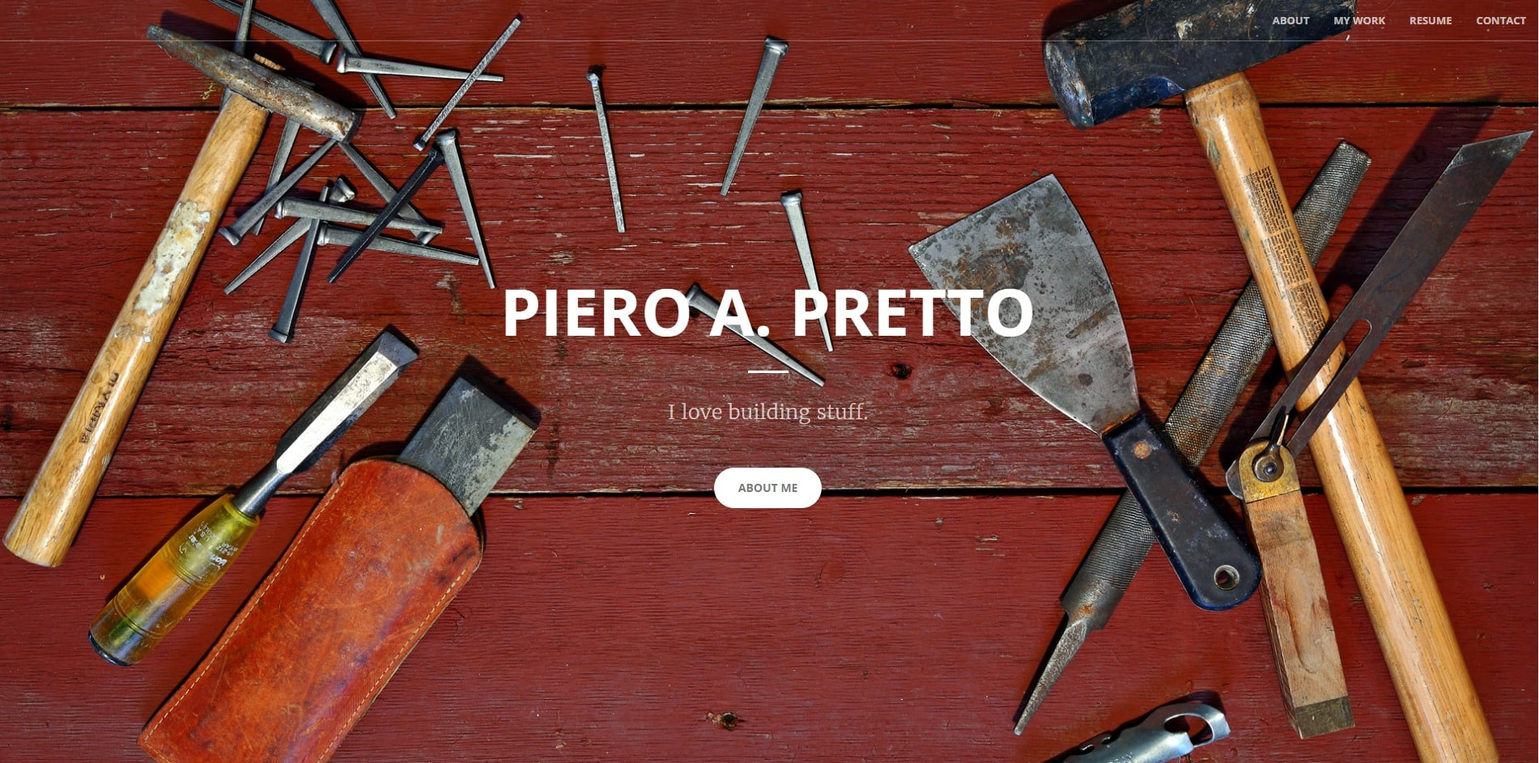
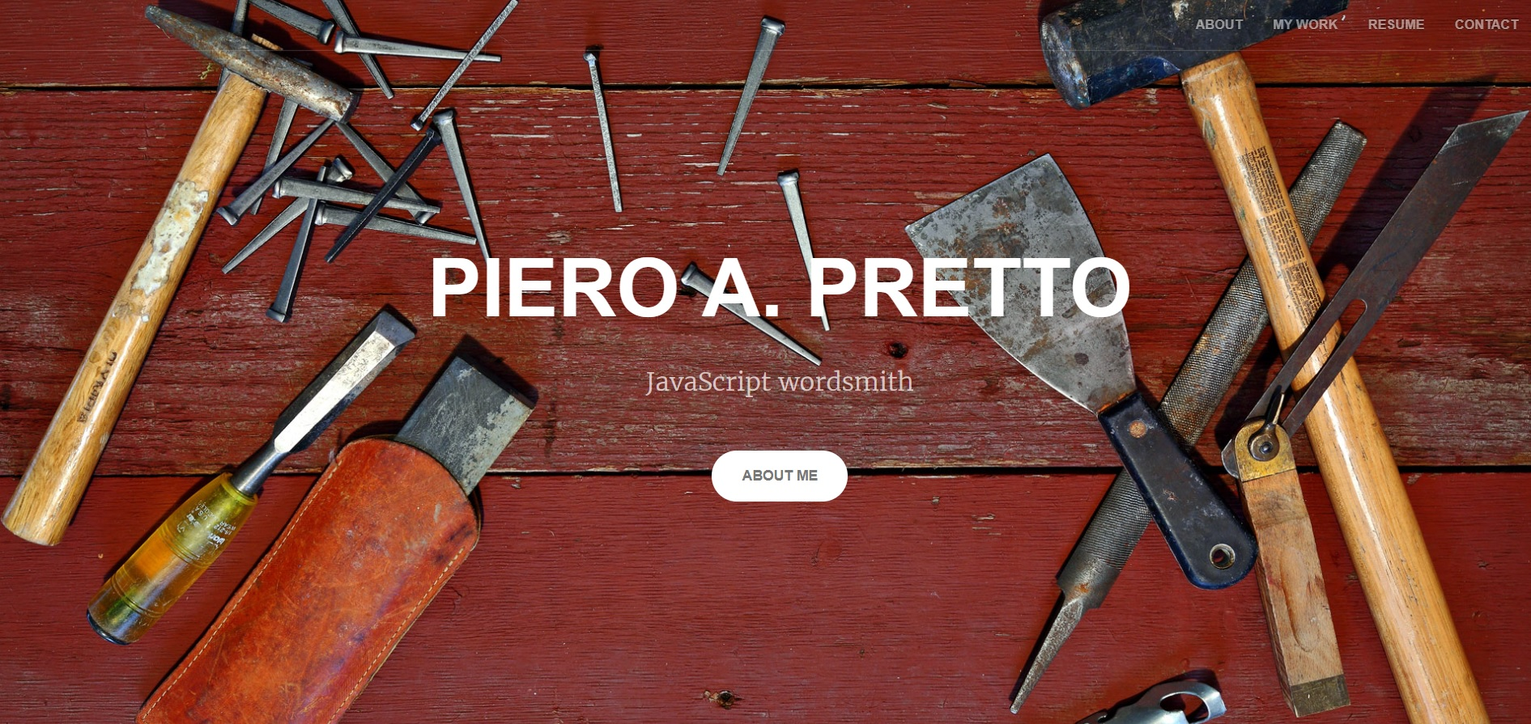
update resume and add project descriptions

diff --git a/css/creative_mini.css b/css/creative_mini.css
@@ -1,1 +1,1 @@
-html,body{height:100%;width:100%}body{font-family:'Merriweather','Helvetica Neue',Arial,sans-serif}hr{border-color:#fff;border-width:3px;max-width:50px}hr.light{border-color:white}a{-webkit-transition:all 0.35s;-moz-transition:all 0.35s;transition:all 0.35s;color:#F05F40}a:hover,a:focus{color:#eb3812}h1,h2,h3,h4,h5,h6{font-family:'Open Sans','Helvetica Neue',Arial,sans-serif}p{font-size:18px;line-height:1.5;margin-bottom:20px}.bg-primary{background-color:#F05F40}.bg-dark{background-color:#262626;color:white}.text-faded{color:rgba(255,255,255,.7);text-align:center}#about:hover #profile-picture{transform:scale(1.1);-webkit-transition:transform .5s;transition:transform .5s;transition-timing-function:linear;-webkit-transition-timing-function:linear}section{padding:100px 0}aside{padding:50px 0}.no-padding{padding:0}.navbar-default{background-color:white;border-color:rgba(34,34,34,.05);font-family:'Open Sans','Helvetica Neue',Arial,sans-serif;-webkit-transition:all 0.35s;-moz-transition:all 0.35s;transition:all 0.35s;opacity:.5}.navbar-default .navbar-header .navbar-brand{color:#F05F40;font-family:'Open Sans','Helvetica Neue',Arial,sans-serif;font-weight:700;text-transform:uppercase}.navbar-default .navbar-header .navbar-brand:hover,.navbar-default .navbar-header .navbar-brand:focus{color:#eb3812}.navbar-default .navbar-header .navbar-toggle{font-weight:700;font-size:12px;color:#222;text-transform:uppercase}.navbar-default .nav>li>a,.navbar-default .nav>li>a:focus{text-transform:uppercase;font-weight:700;font-size:13px;color:#222}.navbar-default .nav>li>a:hover,.navbar-default .nav>li>a:focus:hover{color:#F05F40}.navbar-default .nav>li.active>a,.navbar-default .nav>li.active>a:focus{color:#F05F40!important;background-color:transparent}.navbar-default .nav>li.active>a:hover,.navbar-default .nav>li.active>a:focus:hover{background-color:transparent}@media (min-width:768px){.navbar-default{background-color:transparent;border-color:rgba(255,255,255,.3)}.navbar-default .navbar-header .navbar-brand{color:rgba(255,255,255,.7)}.navbar-default .navbar-header .navbar-brand:hover,.navbar-default .navbar-header .navbar-brand:focus{color:white}.navbar-default .nav>li>a{color:#fff;text-shadow:-1px 0 black,0 1px black,0 -1px black}.navbar-default .nav>li>a:hover,.navbar-default .nav>li>a:focus:hover{-webkit-transform:scale(1.1);-ms-transform:scale(1.1);transform:scale(1.1);color:#fff}.navbar-default.affix{background-color:white;border-color:rgba(34,34,34,.05)}.navbar-default.affix .navbar-header .navbar-brand{color:#F05F40;font-size:14px}.navbar-default.affix .navbar-header .navbar-brand:hover,.navbar-default.affix .navbar-header .navbar-brand:focus{color:#eb3812}.navbar-default.affix .nav>li>a,.navbar-default.affix .nav>li>a:focus{color:#222}.navbar-default.affix .nav>li>a:hover,.navbar-default.affix .nav>li>a:focus:hover{color:#F05F40}}header{position:relative;width:100%;min-height:auto;-webkit-background-size:cover;-moz-background-size:cover;background-size:cover;-o-background-size:cover;background-position:center;background-image:url(../img/header3-min.jpg);filter:alpha(opacity=90);text-align:center;color:white}header .header-content{position:relative;text-align:center;padding:100px 15px 100px;width:100%}header .header-content .header-content-inner h1{font-weight:700;text-transform:uppercase;font-size:30px}header .header-content .header-content-inner hr{margin:30px auto}header .header-content .header-content-inner p{font-weight:300;color:rgba(255,255,255,.7);font-size:16px;margin-bottom:50px}@media (min-width:768px){header{min-height:100%}header .header-content{position:absolute;top:50%;-webkit-transform:translateY(-50%);-ms-transform:translateY(-50%);transform:translateY(-50%);padding:0 50px}header .header-content .header-content-inner{max-width:1000px;margin-left:auto;margin-right:auto}header .header-content .header-content-inner h1{font-size:50px}header .header-content .header-content-inner p{font-size:25px;max-width:80%;margin-left:auto;margin-right:auto}}.section-heading{margin-top:0}.service-box{min-height:250px;max-width:400px;margin:50px auto 0}@media (min-width:992px){.service-box{margin:20px auto 0}}.service-box p{margin-bottom:0;padding-left:5px;padding-right:5px;}.portfolio-box{position:relative;display:block;max-width:650px;margin:0 auto}.portfolio-box .portfolio-box-caption{color:white;opacity:0;display:block;background:#012561;position:absolute;bottom:0;text-align:center;width:100%;height:100%;-webkit-transition:all 0.35s;-moz-transition:all 0.35s;transition:all 0.35s}.portfolio-box .portfolio-box-caption .portfolio-box-caption-content{width:100%;text-align:center;position:absolute;top:50%;transform:translateY(-50%)}.portfolio-box .portfolio-box-caption .portfolio-box-caption-content .project-category,.portfolio-box .portfolio-box-caption .portfolio-box-caption-content .project-name{font-family:'Open Sans','Helvetica Neue',Arial,sans-serif;padding:0 15px}.portfolio-box .portfolio-box-caption .portfolio-box-caption-content .project-category{text-transform:uppercase;font-weight:600;font-size:14px}.portfolio-box .portfolio-box-caption .portfolio-box-caption-content .project-name{font-size:18px}.portfolio-box:hover .portfolio-box-caption{opacity:.97}.portfolio-box:focus{outline:none}@media (min-width:768px){.portfolio-box .portfolio-box-caption .portfolio-box-caption-content .project-category{font-size:16px}.portfolio-box .portfolio-box-caption .portfolio-box-caption-content .project-name{font-size:22px}}.call-to-action h2{margin:0 auto 20px}.text-primary{color:#F05F40}.no-gutter>[class*='col-']{padding-right:0;padding-left:0}.btn-default{color:#222;background-color:white;border-color:white;-webkit-transition:all 0.35s;-moz-transition:all 0.35s;transition:all 0.35s}.btn-default:hover,.btn-default:focus,.btn-default.focus,.btn-default:active,.btn-default.active,.open>.dropdown-toggle.btn-default{color:#222;background-color:#f2f2f2;border-color:#ededed}.btn-default:active,.btn-default.active,.open>.dropdown-toggle.btn-default{background-image:none}.btn-default.disabled,.btn-default[disabled],fieldset[disabled] .btn-default,.btn-default.disabled:hover,.btn-default[disabled]:hover,fieldset[disabled] .btn-default:hover,.btn-default.disabled:focus,.btn-default[disabled]:focus,fieldset[disabled] .btn-default:focus,.btn-default.disabled.focus,.btn-default[disabled].focus,fieldset[disabled] .btn-default.focus,.btn-default.disabled:active,.btn-default[disabled]:active,fieldset[disabled] .btn-default:active,.btn-default.disabled.active,.btn-default[disabled].active,fieldset[disabled] .btn-default.active{background-color:white;border-color:white}.btn-default .badge{color:white;background-color:#222}.btn-primary{color:#777;background-color:#fff;border-color:#000;-webkit-transition:all 0.35s;-moz-transition:all 0.35s;transition:all 0.35s}.btn-primary:hover,.btn-primary:focus,.btn-primary.focus,.btn-primary:active,.btn-primary.active,.open>.dropdown-toggle.btn-primary{color:white;background-color:#F05F40;border-color:#F05F40}.btn-primary:active,.btn-primary.active,.open>.dropdown-toggle.btn-primary{background-image:none}.btn-primary.disabled,.btn-primary[disabled],fieldset[disabled] .btn-primary,.btn-primary.disabled:hover,.btn-primary[disabled]:hover,fieldset[disabled] .btn-primary:hover,.btn-primary.disabled:focus,.btn-primary[disabled]:focus,fieldset[disabled] .btn-primary:focus,.btn-primary.disabled.focus,.btn-primary[disabled].focus,fieldset[disabled] .btn-primary.focus,.btn-primary.disabled:active,.btn-primary[disabled]:active,fieldset[disabled] .btn-primary:active,.btn-primary.disabled.active,.btn-primary[disabled].active,fieldset[disabled] .btn-primary.active{background-color:#F05F40;border-color:#F05F40}.btn-primary .badge{color:#F05F40;background-color:white}.btn{font-family:'Open Sans','Helvetica Neue',Arial,sans-serif;border:none;border-radius:300px;font-weight:700;text-transform:uppercase}.btn-xl:hover{-webkit-transform:scale(1.1);-ms-transform:scale(1.1);transform:scale(1.1)}.btn-xl{padding:15px 30px}::-moz-selection{color:white;text-shadow:none;background:#222}::selection{color:white;text-shadow:none;background:#222}img::selection{color:white;background:transparent}img::-moz-selection{color:white;background:transparent}body{webkit-tap-highlight-color:#222}.sr-icons{font-size:4em}.footer_info{line-height:3}@media (min-width:768px){#homeHeading{font-size:80px}}@media (max-width:767px){#homeHeading{font-size:40px;text-shadow:2px 2px #000}header{background-color:#fff;opacity:.8}#homeHr{display:none}}.img_circle{border-radius:50%;height:150px;width:150px;border:2px solid #fff;margin:20px}.img-responsive{outline:2px solid #777;outline-offset:-1px}@media (max-width:992px),(min-width:767px){#overflow-img{outline:0;outline-offset:-1px}}.sectionHr{border-color:#737373;border-width:2px;max-width:50px}#facebook_img{display:none}#portfolio-box-overflow:hover{background:#012561}
+html,body{height:100%;width:100%}body{font-family:'Merriweather','Helvetica Neue',Arial,sans-serif}hr{border-color:#fff;border-width:3px;max-width:50px}hr.light{border-color:white}a{-webkit-transition:all 0.35s;-moz-transition:all 0.35s;transition:all 0.35s;color:#F05F40}a:hover,a:focus{color:#eb3812}h1,h2,h3,h4,h5,h6{font-family:'Open Sans','Helvetica Neue',Arial,sans-serif}p{font-size:18px;line-height:1.5;margin-bottom:20px}.bg-primary{background-color:#F05F40}.bg-dark{background-color:#262626;color:white}.text-faded{color:rgba(255,255,255,.7);text-align:center}#about:hover #profile-picture{transform:scale(1.1);-webkit-transition:transform .5s;transition:transform .5s;transition-timing-function:linear;-webkit-transition-timing-function:linear}section{padding:100px 0}aside{padding:50px 0}.no-padding{padding:0}.navbar-default{background-color:white;border-color:rgba(34,34,34,.05);font-family:'Open Sans','Helvetica Neue',Arial,sans-serif;-webkit-transition:all 0.35s;-moz-transition:all 0.35s;transition:all 0.35s;opacity:.5}.navbar-default .navbar-header .navbar-brand{color:#F05F40;font-family:'Open Sans','Helvetica Neue',Arial,sans-serif;font-weight:700;text-transform:uppercase}.navbar-default .navbar-header .navbar-brand:hover,.navbar-default .navbar-header .navbar-brand:focus{color:#eb3812}.navbar-default .navbar-header .navbar-toggle{font-weight:700;font-size:12px;color:#222;text-transform:uppercase}.navbar-default .nav>li>a,.navbar-default .nav>li>a:focus{text-transform:uppercase;font-weight:700;font-size:13px;color:#222}.navbar-default .nav>li>a:hover,.navbar-default .nav>li>a:focus:hover{color:#F05F40}.navbar-default .nav>li.active>a,.navbar-default .nav>li.active>a:focus{color:#F05F40!important;background-color:transparent}.navbar-default .nav>li.active>a:hover,.navbar-default .nav>li.active>a:focus:hover{background-color:transparent}@media (min-width:768px){.navbar-default{background-color:transparent;border-color:rgba(255,255,255,.3)}.navbar-default .navbar-header .navbar-brand{color:rgba(255,255,255,.7)}.navbar-default .navbar-header .navbar-brand:hover,.navbar-default .navbar-header .navbar-brand:focus{color:white}.navbar-default .nav>li>a{color:#fff;text-shadow:-1px 0 black,0 1px black,0 -1px black}.navbar-default .nav>li>a:hover,.navbar-default .nav>li>a:focus:hover{-webkit-transform:scale(1.1);-ms-transform:scale(1.1);transform:scale(1.1);color:#fff}.navbar-default.affix{background-color:white;border-color:rgba(34,34,34,.05)}.navbar-default.affix .navbar-header .navbar-brand{color:#F05F40;font-size:14px}.navbar-default.affix .navbar-header .navbar-brand:hover,.navbar-default.affix .navbar-header .navbar-brand:focus{color:#eb3812}.navbar-default.affix .nav>li>a,.navbar-default.affix .nav>li>a:focus{color:#222}.navbar-default.affix .nav>li>a:hover,.navbar-default.affix .nav>li>a:focus:hover{color:#F05F40}}header{position:relative;width:100%;min-height:auto;-webkit-background-size:cover;-moz-background-size:cover;background-size:cover;-o-background-size:cover;background-position:center;background-image:url(../img/header3.jpg);filter:alpha(opacity=90);text-align:center;color:white}header .header-content{position:relative;text-align:center;padding:100px 15px 100px;width:100%}header .header-content .header-content-inner h1{font-weight:700;text-transform:uppercase;font-size:30px}header .header-content .header-content-inner hr{margin:30px auto}header .header-content .header-content-inner p{font-weight:300;color:rgba(255,255,255,.7);font-size:16px;margin-bottom:50px}@media (min-width:768px){header{min-height:100%}header .header-content{position:absolute;top:50%;-webkit-transform:translateY(-50%);-ms-transform:translateY(-50%);transform:translateY(-50%);padding:0 50px}header .header-content .header-content-inner{max-width:1000px;margin-left:auto;margin-right:auto}header .header-content .header-content-inner h1{font-size:50px}header .header-content .header-content-inner p{font-size:25px;max-width:80%;margin-left:auto;margin-right:auto}}.section-heading{margin-top:0}.service-box{max-width:400px;margin:50px auto 0}@media (min-width:992px){.service-box{margin:20px auto 0}}.service-box p{margin-bottom:0}.portfolio-box{position:relative;display:block;max-width:650px;margin:0 auto}.portfolio-box .portfolio-box-caption{color:white;opacity:0;display:block;background:#012561;position:absolute;bottom:0;text-align:center;width:100%;height:100%;-webkit-transition:all 0.35s;-moz-transition:all 0.35s;transition:all 0.35s}.portfolio-box .portfolio-box-caption .portfolio-box-caption-content{width:100%;text-align:center;position:absolute;top:50%;transform:translateY(-50%)}.portfolio-box .portfolio-box-caption .portfolio-box-caption-content .project-category,.portfolio-box .portfolio-box-caption .portfolio-box-caption-content .project-name{font-family:'Open Sans','Helvetica Neue',Arial,sans-serif;padding:0 15px}.portfolio-box .portfolio-box-caption .portfolio-box-caption-content .project-category{text-transform:uppercase;font-weight:600}.portfolio-box .portfolio-box-caption .portfolio-box-caption-content .project-name{font-size:18px}.portfolio-box:hover .portfolio-box-caption{opacity:.97}.portfolio-box:focus{outline:none}@media (min-width:768px){.portfolio-box .portfolio-box-caption .portfolio-box-caption-content{font-size:16px}.portfolio-box .portfolio-box-caption .portfolio-box-caption-content .project-name{font-size:22px}}.call-to-action h2{margin:0 auto 20px}.text-primary{color:#F05F40}.no-gutter>[class*='col-']{padding-right:0;padding-left:0}.btn-default{color:#222;background-color:white;border-color:white;-webkit-transition:all 0.35s;-moz-transition:all 0.35s;transition:all 0.35s}.btn-default:hover,.btn-default:focus,.btn-default.focus,.btn-default:active,.btn-default.active,.open>.dropdown-toggle.btn-default{color:#222;background-color:#f2f2f2;border-color:#ededed}.btn-default:active,.btn-default.active,.open>.dropdown-toggle.btn-default{background-image:none}.btn-default.disabled,.btn-default[disabled],fieldset[disabled] .btn-default,.btn-default.disabled:hover,.btn-default[disabled]:hover,fieldset[disabled] .btn-default:hover,.btn-default.disabled:focus,.btn-default[disabled]:focus,fieldset[disabled] .btn-default:focus,.btn-default.disabled.focus,.btn-default[disabled].focus,fieldset[disabled] .btn-default.focus,.btn-default.disabled:active,.btn-default[disabled]:active,fieldset[disabled] .btn-default:active,.btn-default.disabled.active,.btn-default[disabled].active,fieldset[disabled] .btn-default.active{background-color:white;border-color:white}.btn-default .badge{color:white;background-color:#222}.btn-primary{color:#777;background-color:#fff;border-color:#000;-webkit-transition:all 0.35s;-moz-transition:all 0.35s;transition:all 0.35s}.btn-primary:hover,.btn-primary:focus,.btn-primary.focus,.btn-primary:active,.btn-primary.active,.open>.dropdown-toggle.btn-primary{color:white;background-color:#F05F40;border-color:#F05F40}.btn-primary:active,.btn-primary.active,.open>.dropdown-toggle.btn-primary{background-image:none}.btn-primary.disabled,.btn-primary[disabled],fieldset[disabled] .btn-primary,.btn-primary.disabled:hover,.btn-primary[disabled]:hover,fieldset[disabled] .btn-primary:hover,.btn-primary.disabled:focus,.btn-primary[disabled]:focus,fieldset[disabled] .btn-primary:focus,.btn-primary.disabled.focus,.btn-primary[disabled].focus,fieldset[disabled] .btn-primary.focus,.btn-primary.disabled:active,.btn-primary[disabled]:active,fieldset[disabled] .btn-primary:active,.btn-primary.disabled.active,.btn-primary[disabled].active,fieldset[disabled] .btn-primary.active{background-color:#F05F40;border-color:#F05F40}.btn-primary .badge{color:#F05F40;background-color:white}.btn{font-family:'Open Sans','Helvetica Neue',Arial,sans-serif;border:none;border-radius:300px;font-weight:700;text-transform:uppercase}.btn-xl:hover{-webkit-transform:scale(1.1);-ms-transform:scale(1.1);transform:scale(1.1)}.btn-xl{padding:15px 30px}::-moz-selection{color:white;text-shadow:none;background:#222}::selection{color:white;text-shadow:none;background:#222}img::selection{color:white;background:transparent}img::-moz-selection{color:white;background:transparent}body{webkit-tap-highlight-color:#222}.sr-icons{font-size:4em}.footer_info{line-height:3}@media (min-width:768px){#homeHeading{font-size:80px}}@media (max-width:767px){#homeHeading{font-size:40px;text-shadow:2px 2px #000}header{background-color:#fff;opacity:.8}#homeHr{display:none}}.img_circle{border-radius:50%;height:150px;width:150px;border:2px solid #fff;margin:20px}.img-responsive{outline:2px solid #777;outline-offset:-1px}@media (max-width:992px),(min-width:767px){#overflow-img{outline:0;outline-offset:-1px}}.sectionHr{border-color:#737373;border-width:2px;max-width:50px}#facebook_img{display:none}#portfolio-box-overflow:hover{background:#012561}.line_break{max-width:50%}.project-category{font-size:18px;margin-top:25px}.project-description{font-size:14px}@media(max-width:500px){.project-category{font-size:14px}.project-description{font-size:11px}}

diff --git a/index.html b/index.html
@@ -18,7 +18,7 @@
         <!-- Bootstrap Core CSS -->
         <link rel="stylesheet" href="css/bootstrap_mini.css">
         <!-- Theme CSS -->
-        <link rel="stylesheet" href="css/creative_mini.css">
+        <link rel="stylesheet" href="css/creative.css">
 
     </head>
 
@@ -61,7 +61,7 @@
                     <div class="header-content-inner wow fadeIn" data-wow-duration="1s">
                         <h1 id="homeHeading">Piero A. Pretto</h1>
                         <hr id="homeHr">
-                        <p id="homeParagraph">I love to build.</p>
+                        <p id="homeParagraph">JavaScript wordsmith</p>
                         <a href="#about" class="btn btn-primary btn-xl page-scroll" alt="scroll to about section">About Me</a>
                     </div>
                 </div>
@@ -77,7 +77,7 @@
                     <br>
                     <br>
                     <div role="contentinfo">
-                      <p class="text-faded wow fadeIn" data-wow-duration="1s" >Web consultant with an expertise in web accessibility and client-side JavaScript frameworks.</p>
+                      <p class="text-faded wow fadeIn" data-wow-duration="1s">Hi! My name is Piero. I'm an instructional associate at General Assembly and a web consultant with an expertise in modern JavaScript frameworks.</p>
                     </div>
                     <br>
                     <br>
@@ -144,13 +144,13 @@
                       <a href="https://dlcc1h28kdoc1.cloudfront.net" class="portfolio-box" target="_blank" role="link" alt="link to accessible drag and drop app">
                           <img src="img/accessible_app4-min.jpg" class="img-responsive wow fadeInUp" data-wow-duration="1s" alt="accessibility app">
                             <div class="portfolio-box-caption">
-                                <div class="portfolio-box-caption-content">
+                                <div class="portfolio-box-caption-content" style="padding:50px;">
                                     <div class="project-category text-faded">
-                                        JavaScript
-                                    </div>
-                                    <div class="project-name">
                                         Accessible Drag &#38; Drag
                                     </div>
+                                    <img class="line_break" src="img/line_break.png">
+                                    <br>
+                                    <p class="project-description">An ADA Section 508 compliant learning module demo for instructors who assist students with disabilities.</p>
                                 </div>
                             </div>
                         </a>
@@ -159,13 +159,13 @@
                         <a href="animations/animation_example1.html" class="portfolio-box" role="link" alt="link to JavaScript Animation demo">
                             <img src="img/phone.gif"  class="img-responsive wow fadeInUp" data-wow-duration="1s" alt="javascript animation app">
                             <div class="portfolio-box-caption">
-                                <div class="portfolio-box-caption-content">
+                                <div class="portfolio-box-caption-content" style="padding:50px;">
                                     <div class="project-category text-faded">
-                                        JavaScript Animation
-                                    </div>
-                                    <div class="project-name">
                                         AT&#38;T Banner Advertisement
                                     </div>
+                                    <img class="line_break" src="img/line_break.png">
+                                    <br>
+                                    <p class="project-description">HTML5 ad built exclusively with JavaScript &#38; CSS.</p>
                                 </div>
                             </div>
                         </a>
@@ -174,13 +174,13 @@
                         <a href="https://react-app-repository.herokuapp.com" class="portfolio-box" role="link" alt="link to React Movie Repository">
                             <img src="img/react2-min.jpg"  class="img-responsive wow fadeInUp" data-wow-duration="1s" alt="react movie repository app">
                             <div class="portfolio-box-caption">
-                                <div class="portfolio-box-caption-content">
+                                <div class="portfolio-box-caption-content" style="padding:50px;">
                                     <div class="project-category text-faded">
-                                        React.js
-                                    </div>
-                                    <div class="project-name">
                                         React Movie Repository
                                     </div>
+                                    <img class="line_break" src="img/line_break.png">
+                                    <br>
+                                    <p class="project-description">RESTful React.js application utilizing OMDb API to auto-generate data based on movie title submissions.</p>
                                 </div>
                             </div>
                         </a>
@@ -189,13 +189,13 @@
                         <a href="https://switter-app.herokuapp.com" class="portfolio-box" role="link" alt="link to Backbone.js Switter App">
                             <img src="img/switter3-min.jpg" class="img-responsive wow fadeInUp" data-wow-duration="1s" alt="backbone.js switter app">
                             <div class="portfolio-box-caption">
-                                <div class="portfolio-box-caption-content">
+                                <div class="portfolio-box-caption-content" style="padding:50px;">
                                     <div class="project-category text-faded">
-                                        Backbone.js
-                                    </div>
-                                    <div class="project-name">
                                         Switter App
                                     </div>
+                                    <img class="line_break" src="img/line_break.png">
+                                    <br>
+                                    <p class="project-description">RESTful Backbone.js application. Every "tweet" can be deleted, updated and liked in the status feed.</p>
                                 </div>
                             </div>
                         </a>
@@ -204,14 +204,14 @@
                         <a href="heminotes/heminotes_main/index.html" class="portfolio-box" target="_blank" role="link" alt="link to HemiNotes App">
                             <img src="img/heminotes3-min.jpg"  class="img-responsive wow fadeInUp" data-wow-duration="1s" alt="heminotes">
                             <div class="portfolio-box-caption">
-                                <div class="portfolio-box-caption-content">
-                                    <div class="project-category text-faded">
-                                        HTML &#38; CSS
-                                    </div>
-                                    <div class="project-name">
-                                        HemiNotes
-                                    </div>
-                                </div>
+                              <div class="portfolio-box-caption-content" style="padding:50px;">
+                                  <div class="project-category text-faded">
+                                      HemiNotes
+                                  </div>
+                                  <img class="line_break" src="img/line_break.png">
+                                  <br>
+                                  <p class="project-description">Share &#38; Compare Notes with classmates. This web applcation was built on Bootstrap.</p>
+                              </div>
                             </div>
                         </a>
                     </div>
@@ -219,14 +219,14 @@
                         <a href="https://d12sh18v9174ct.cloudfront.net" class="portfolio-box" role="link" alt="link to Angular.js Address Book">
                             <img src="img/angular3-min.jpg"  class="img-responsive wow fadeInUp" data-wow-duration="1s" alt="Angular.js Address Book">
                             <div class="portfolio-box-caption">
-                                <div class="portfolio-box-caption-content">
-                                    <div class="project-category text-faded">
-                                        Angular.JS
-                                    </div>
-                                    <div class="project-name">
-                                        Address Book
-                                    </div>
-                                </div>
+                              <div class="portfolio-box-caption-content" style="padding:50px;">
+                                  <div class="project-category text-faded">
+                                      AngularJS Address Book
+                                  </div>
+                                  <img class="line_break" src="img/line_break.png">
+                                  <br>
+                                  <p class="project-description">REST-consuming address book application built with Angular.js</p>
+                              </div>
                             </div>
                         </a>
                     </div>
@@ -234,14 +234,14 @@
                         <a href="https://email-management-system-react.herokuapp.com" class="portfolio-box" role="link" alt="link to React Email Management System" target="_blank">
                             <img src="img/emails.jpg" class="img-responsive wow fadeInUp" data-wow-duration="1s" alt="Email Management System">
                             <div class="portfolio-box-caption">
-                                <div class="portfolio-box-caption-content">
-                                    <div class="project-category text-faded">
-                                        React.js
-                                    </div>
-                                    <div class="project-name">
-                                        Email Management System
-                                    </div>
-                                </div>
+                              <div class="portfolio-box-caption-content" style="padding:50px;">
+                                  <div class="project-category text-faded">
+                                      Email Management System
+                                  </div>
+                                  <img class="line_break" src="img/line_break.png">
+                                  <br>
+                                  <p class="project-description">ReactJS application for organizing and searching through email contacts.</p>
+                              </div>
                             </div>
                         </a>
                     </div>
@@ -250,12 +250,14 @@
                             <img src="img/brello2-min.jpg"  class="img-responsive wow fadeInUp" data-wow-duration="1s" alt="brello app">
                             <div class="portfolio-box-caption">
                                 <div class="portfolio-box-caption-content">
-                                    <div class="project-category text-faded">
-                                        Backbone.js
-                                    </div>
-                                    <div class="project-name">
-                                        Task Manager
-                                    </div>
+                                  <div class="portfolio-box-caption-content" style="padding:50px;">
+                                      <div class="project-category text-faded">
+                                          Backbone.js Task Manager
+                                      </div>
+                                      <img class="line_break" src="img/line_break.png">
+                                      <br>
+                                      <p class="project-description">Utilizing mongoose population methods to link together JSON objects into custom lists. Passport.js give users secure profile.</p>
+                                  </div>
                                 </div>
                             </div>
                         </a>
@@ -264,14 +266,14 @@
                         <a href="http://tyandslob.com" class="portfolio-box" role="link" alt="link to Angular.js Pragmatic Media App">
                             <img src="img/tyandslob-min.jpg" id="overflow-img"  class="img-responsive wow fadeInUp" data-wow-duration="1s" alt="Pragmatic Media LLC App">
                             <div class="portfolio-box-caption">
-                                <div class="portfolio-box-caption-content">
-                                    <div class="project-category text-faded">
-                                        Angular.JS
-                                    </div>
-                                    <div class="project-name">
-                                        Pragmatic Media LLC Media App
-                                    </div>
-                                </div>
+                              <div class="portfolio-box-caption-content" style="padding:50px;">
+                                  <div class="project-category text-faded">
+                                      Angular.js Media Library
+                                  </div>
+                                  <img class="line_break" src="img/line_break.png">
+                                  <br>
+                                  <p class="project-description">Ty and Slob produces humorous yet serious content on pop culture, trending topics in the internet and news, and much more.</p>
+                              </div>
                             </div>
                         </a>
                     </div>
@@ -293,7 +295,7 @@
             <div class="container-fluid">
                 <div role="list" class="row">
                     <div role="listitem" class="col-lg-8 col-lg-offset-2 text-center">
-                        <h2 class="section-heading wow fadeIn" data-wow-duration="1s">Let's Get In Touch!</h2>
+                        <h2 class="section-heading wow fadeIn" data-wow-duration="1s">Let's Get In Touch.</h2>
                         <hr class="primary">
                         <p class="wow fadeIn" data-wow-duration="1s">For all inquiries, send me an email. I'll get back to you as soon as possible! </p>
                         <br>
@@ -302,7 +304,9 @@
                     <div role="listitem" class="col-lg-3 col-lg-offset-1 text-center">
                       <br>
                         <img role="presentation" src="img/icons/gmail.svg" aria-hidden="true" width="50px" alt="gmail">
-                        <p class="footer_info"><a href="mailto:piero.devops@gmail.com" role="link" alt="link to email">piero.devops@gmail.com</a></p>
+                        <a href="mailto:piero.devops@gmail.com" role="link" alt="link to email">
+                          <p class="footer_info">piero.devops@gmail.com</p>
+                        </a>
                     </div>
                     <div role="listitem" class="col-lg-2 col-lg-offset-1 text-center">
                       <br>

diff --git a/philanthropy.html b/philanthropy.html
@@ -53,19 +53,19 @@
                   <form id="form" ng-submit="messageSubmit()" class="col-lg-12 col-md-12 col-sm-12 col-xs-12">
                     <div role="list" class="form-group">
                       <label for="name">Your Name</label>
-                        <input role="listitem" ng-model="name" type="text" class="form-control" id="title" aria-describedby="name input" placeholder=" Mike Jones" pattern=".{3,}" required>
+                        <input role="listitem" ng-model="name" type="text" class="form-control" id="title" aria-describedby="name input" placeholder=" Mike Jones" pattern="[A-Za-z]{2,20}" required>
                       <br>
                       <label for="phonr">Phone</label>
-                        <input role="listitem" ng-model="phone" type="text" class="form-control" id="title" aria-describedby="phone input" placeholder=" 281-330-8004" pattern=".{9,}" required>
+                        <input role="listitem" ng-model="phone" type="text" class="form-control" id="title" aria-describedby="phone input" placeholder=" 281-330-8004" pattern="\(?\d{3}\)?[-. ]?\d{3}[-. ]?\d{4}" required>
                       <br>
                       <label for="charity">Charity</label>
-                        <input role="listitem" ng-model="charity" type="text" class="form-control" id="title" aria-describedby="charity input" placeholder=" Meals On Wheels" pattern=".{3,}" required>
+                        <input role="listitem" ng-model="charity" type="text" class="form-control" id="title" aria-describedby="charity input" placeholder=" Meals On Wheels" pattern="[A-Za-z0-9]{2,40}" required>
                       <br>
                       <label for="website">Current Website (Optional)</label>
                         <input role="listitem" ng-model="website" type="text" class="form-control" id="title" aria-describedby="current website input" placeholder=" https://www.mealsonwheelscentraltexas.org" pattern=".{4,}">
                       <br>
                       <label for="message">Message (Optional)</label>
-                        <textarea role="listitem" ng-model="message" type="text" class="form-control" id="description" rows="4" aria-describedby="message input" placeholder=" This place rocks because.." pattern=".{5,}"></textarea>
+                        <textarea role="listitem" ng-model="message" type="text" class="form-control" id="description" rows="4" aria-describedby="message input" placeholder=" This place rocks because.." pattern="[A-Za-z]{2,200}"></textarea>
                     </div>
                     <br>
                     <button id="emailButton" type="submit" class="btn btn-default">Submit</button><span id="status"></span>

diff --git a/css/creative.css b/css/creative.css
@@ -270,7 +270,6 @@ header .header-content .header-content-inner p {
 .portfolio-box .portfolio-box-caption .portfolio-box-caption-content .project-category {
   text-transform: uppercase;
   font-weight: 600;
-  font-size: 14px;
 }
 .portfolio-box .portfolio-box-caption .portfolio-box-caption-content .project-name {
   font-size: 18px;
@@ -282,7 +281,7 @@ header .header-content .header-content-inner p {
   outline: none;
 }
 @media (min-width: 768px) {
-  .portfolio-box .portfolio-box-caption .portfolio-box-caption-content .project-category {
+  .portfolio-box .portfolio-box-caption .portfolio-box-caption-content {
     font-size: 16px;
   }
   .portfolio-box .portfolio-box-caption .portfolio-box-caption-content .project-name {
@@ -477,7 +476,6 @@ body {
     outline-offset: -1px;
   }
 }
-
 .sectionHr {
   border-color: #737373;
   border-width: 2px;
@@ -488,4 +486,22 @@ body {
 }
 #portfolio-box-overflow:hover {
   background: #012561;
+}
+.line_break {
+  max-width: 50%;
+}
+.project-category {
+  font-size: 18px;
+  margin-top: 25px;
+}
+.project-description {
+  font-size: 14px;
+}
+@media(max-width: 500px) {
+  .project-category {
+    font-size: 14px;
+  }
+  .project-description {
+    font-size: 11px;
+  }
 }

diff --git a/resume.html b/resume.html
@@ -13,6 +13,12 @@
   <link href="css/bootstrap.css" rel="stylesheet">
 </head>
 </body id="resume_body">
+  <style>
+  section { height: 1600px; }
+  @media(max-width: 997px) { section { height: 1223px; }}
+  @media(max-width: 776px) { section { height: 875px; }}
+  @media(max-width: 500px) { section { height: 625px; }}
+  </style>
   <nav class="navbar navbar-inverse navbar-fixed-top" role="navigation">
       <div class="container">
           <!-- Brand and toggle get grouped for better mobile display -->
@@ -22,9 +28,9 @@
       </div>
   </nav>
   <br>
-  <div class="text-center" style="margin-bottom: 15px; height: 80%;">
-    <iframe src="https://app.box.com/embed/preview/wvyngwjiwngxcdk10gc1luj8u0vgeukn?direction=ASC&theme=light" width="95%" height="1350px" frameborder="0" allowfullscreen webkitallowfullscreen msallowfullscreen> </iframe</body>
-  </div>
+  <section class="text-center" style="margin-bottom: 15px;">
+    <iframe src="https://app.box.com/embed/preview/wvyngwjiwngxcdk10gc1luj8u0vgeukn?direction=ASC&theme=light" width="95%" height="95%" frameborder="0" allowfullscreen webkitallowfullscreen msallowfullscreen> </iframe</body>
+  </section>
   <br>
 </body>
 </html>
